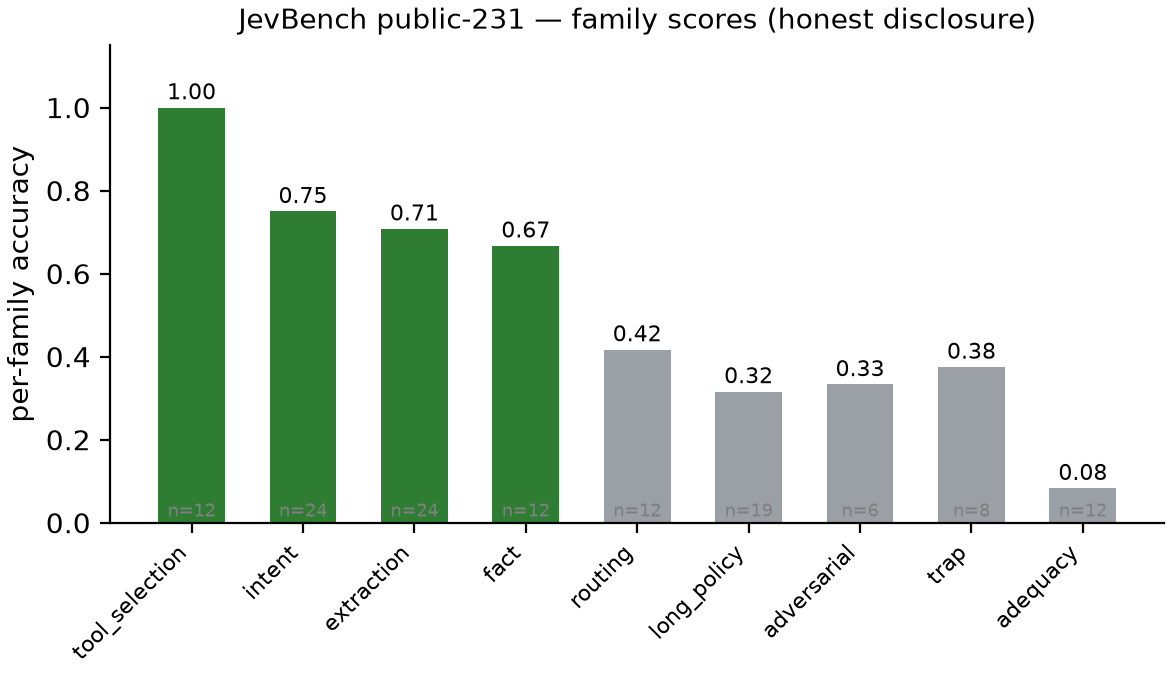
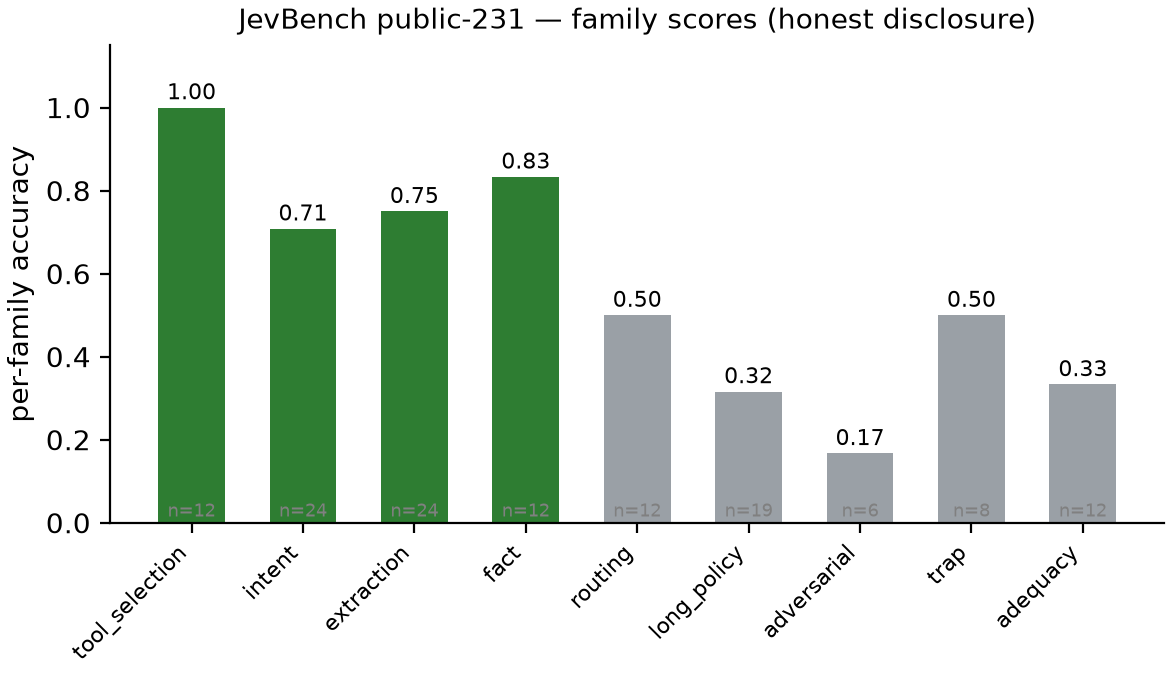
v1.1 errata wave-8: final convergence (tech-report recipe rows, throughput fixes, C4b r4 chart, SUMS refresh)

diff --git a/docs/reproduce.md b/docs/reproduce.md
@@ -29,7 +29,7 @@ All published numbers were measured on the shipped weights (`model.safetensors`,
 ### Latency
 - GPU fp16 single-decision p50 **21.0 ms (RTX 5090)** (release value).
 - CPU single-thread p50 **1.64 s per case** (n=40, idle machine; 1 case = 1 state + 5 decisions, end-to-end incl. tokenize + forward + answer assembly).
-- CPU 8-thread batch **8–20 decisions/s** (b=1 → 21.0, b=32 → 8.7); 2000-row mega-batch 7–9 decisions/s.
+- CPU 8-thread batch **8–20 decisions/s** (b=1 → 19.7, b=32 → 8.4); 2000-row mega-batch 6.8–8.5 decisions/s.
 
 ### JevBench public-231
 - micro **0.5455 = 126/231**; acceptance gate 58.4% (not passed, disclosed); tiers easy 0.9167 (44/48) / original 0.5000 (36/72) / hard 0.4144 (46/111); family-macro 0.5226; tool_selection k≤10 **12/12**.

diff --git a/docs/faq.zh.md b/docs/faq.zh.md
@@ -36,7 +36,7 @@ PHOC_MODEL_DIR=/path/to/Phocinae-Largha-150M-v1 python -m phocinae.main   # http
 
 - GPU fp16 单决策：p50 **21.0 ms（RTX 5090）**（发布冻结值）。
 - CPU 单线程：p50 **1.64 s/case**（1 case＝1 state＋5 题单次前向）——端到端（分词＋前向＋答案组装）单线程 fp32；。这是诚实的 CPU 数字，不是 GPU 数字。
-- CPU 8 线程批处理：**8–20 决策/s**（b=1 → 21.0，b=32 → 8.7）。
+- CPU 8 线程批处理：**8–20 决策/s**（b=1 → 19.7，b=32 → 8.4）。
 
 ## 6. 「翻转率（flip）」数字是什么意思？
 

diff --git a/docs/faq.md b/docs/faq.md
@@ -36,7 +36,7 @@ Weights are 288.6 MB (fp16 safetensors); inference peaks ~1.6 GB VRAM / ~1.8 GB 
 
 - GPU fp16 single decision: **21.0 ms (RTX 5090)** p50 (release value).
 - CPU single-thread: **1.64 s per case** p50 (1 case = 1 state + 5 decisions, single pass) — end-to-end (tokenize + forward + answer assembly) on one fp32 thread. This is the honest CPU number, not the GPU number.
-- CPU 8-thread batch: **8–20 decisions/s** (b=1 → 21.0, b=32 → 8.7).
+- CPU 8-thread batch: **8–20 decisions/s** (b=1 → 19.7, b=32 → 8.4).
 
 ## 6. What do the "flip" numbers mean?
 

diff --git a/docs/cost-savings.md b/docs/cost-savings.md
@@ -52,7 +52,7 @@ Evidence: `exp/refresh_v1_20261009/tau_r4/tau_sweep_r4.json` (v1.1 weights · of
 
 ## Throughput context
 
-- CPU 8-thread batch: **8–20 decisions/s** (b=1 → 21.0, b=32 → 8.7) — local pre-screening capacity.
+- CPU 8-thread batch: **8–20 decisions/s** (b=1 → 19.7, b=32 → 8.4) — local pre-screening capacity.
 - GPU fp16: p50 21.0 ms (RTX 5090)/decision.
 - Local screening time is the main cost trade-off: on CPU budget ~1.5 s per single-threaded case (or batch on 8 threads); on GPU it is effectively free relative to an API round-trip.
 

diff --git a/docs/technical-report.md b/docs/technical-report.md
@@ -34,9 +34,9 @@ Inference is a single non-autoregressive forward pass — deterministic for a fi
 | optimizer | adafactor |
 | lr encoder / head | 2e-5 / 1e-4 |
 | micro batch / grad accum | 8 / 4 |
-| updates | 9228 |
-| wall time | ~1.36 h single GPU (tag `cf4`) |
-| checkpoint | epoch 1/1, avg_loss 1.3690 (v1.1 weights) |
+| updates | 300 |
+| wall time | ~0.044 h single GPU (tag `n13_r4`) |
+| checkpoint | epoch 1/1, avg_loss 1.3689859 (v1.1 weights) |
 
 ## 4. Calibration
 

diff --git a/MODEL_CARD.md b/MODEL_CARD.md
@@ -80,7 +80,7 @@ Safety-critical decisions without human review, compliance/legal judgments, medi
 
 ## Environmental impact
 
-~1.4 h single-GPU fine-tune; ~144M-param forward (≈0.74 TFLOP per case) — negligible relative to LLM inference.
+~0.044 h single-GPU fine-tune; ~144M-param forward (≈0.74 TFLOP per case) — negligible relative to LLM inference.
 
 ## Citation
 
